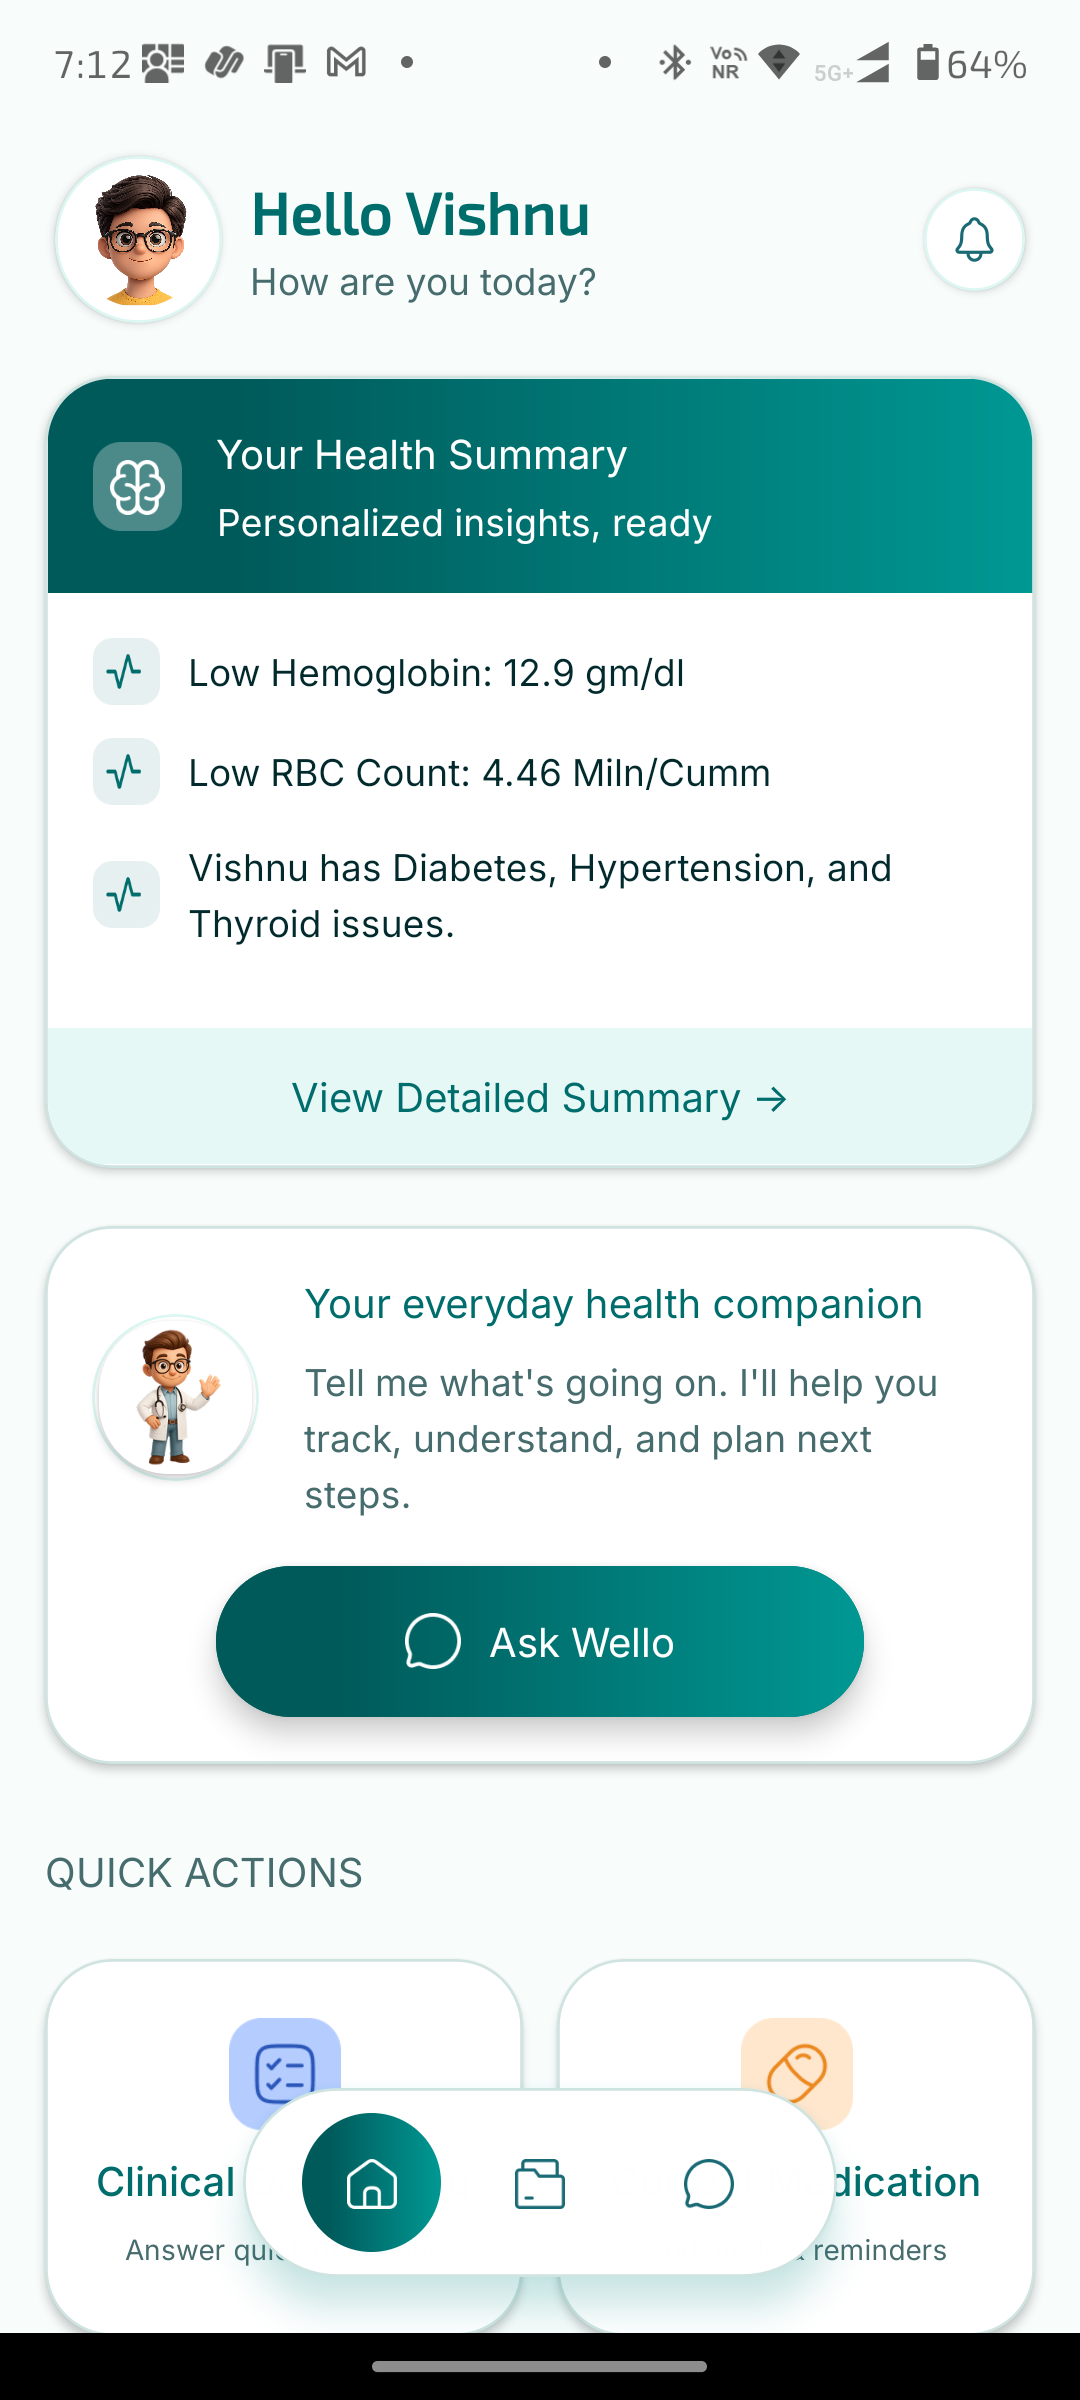
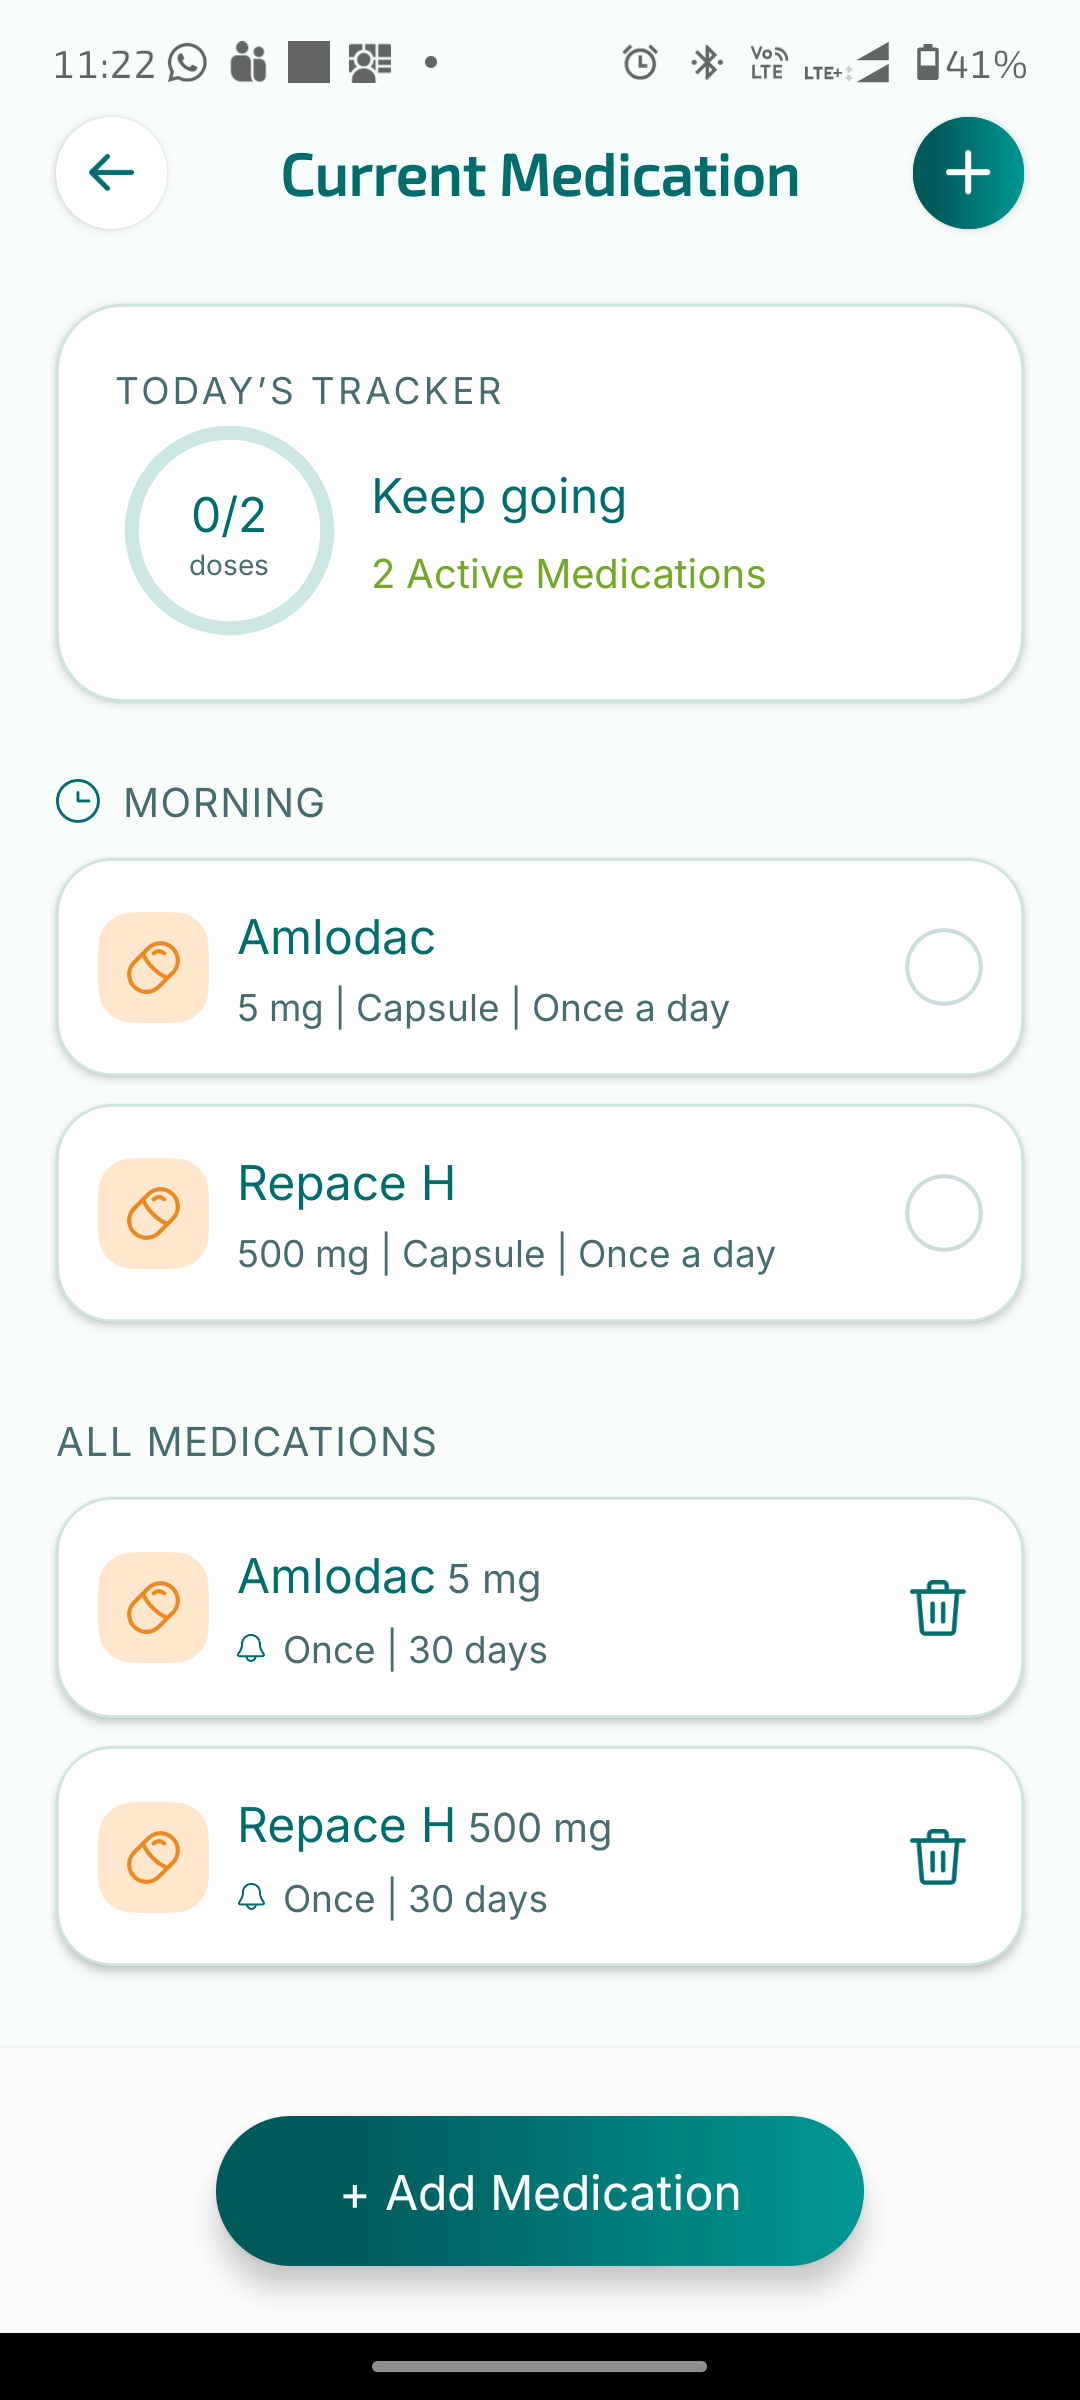
fix: minor bug-fixes

diff --git a/src/constants/portfolioData.js b/src/constants/portfolioData.js
@@ -43,6 +43,7 @@ import Architecture_10 from "../assets/ProjectArchitecture/videoadplayer.png";
 // Featured Work Images
 import FeaturedImage1 from "../assets/FeaturedProjects/Wellonova1.png";
 import FeaturedImage2 from "../assets/FeaturedProjects/Wellonova2.png";
+import FeaturedImage3 from "../assets/FeaturedProjects/Wellonova3.png";
 
 // Experience Icons
 import JioIcon from "../assets/jio.png";
@@ -102,7 +103,7 @@ export const featuredProjects = [
 		// status: "live",
 		role: "Founding Engineer",
 		tags: ["React Native", "WebRTC", "Healthcare"],
-		screenshots: [FeaturedImage1, FeaturedImage2, FeaturedImage2], // User will add screenshots here later
+		screenshots: [FeaturedImage1, FeaturedImage2, FeaturedImage3], // User will add screenshots here later
 		url: null,
 	},
 	{

diff --git a/src/components/sections/Hero/HeroSection.css b/src/components/sections/Hero/HeroSection.css
@@ -3,6 +3,7 @@
 .hero-section {
 	width: 100%;
 	min-height: calc(100vh - 72px);
+	max-height: 900px; /* Limit height in desktop to prevent vertical distortion on tall viewports */
 	margin-top: 72px;
 	padding: 40px 4%;
 	display: flex;
@@ -269,6 +270,7 @@ body.dark-mode .status-badge-inline {
 .hero-portrait-image {
 	height: 100%;
 	width: auto;
+	max-width: 100%;
 	object-fit: contain;
 	object-position: right bottom;
 	-webkit-mask-image: linear-gradient(to right, transparent 0%, transparent 8%, black 45%);
@@ -297,6 +299,7 @@ body.dark-mode .hero-portrait-image {
 	.hero-section {
 		padding: 100px 6% 60px 6%;
 		overflow: hidden;
+		max-height: none; /* Allow natural height expansion on mobile */
 	}
 	
 	.hero-container {

diff --git a/src/components/sections/Featured/Featured.css b/src/components/sections/Featured/Featured.css
@@ -209,7 +209,7 @@ body.dark-mode .triptych-placeholder {
 .triptych-blur-overlay {
 	position: absolute;
 	inset: 0;
-	border-radius: 14px;
+	border-radius: 15px;
 	backdrop-filter: blur(8px);
 	-webkit-backdrop-filter: blur(8px);
 	background-color: rgba(0, 0, 0, 0.2);
